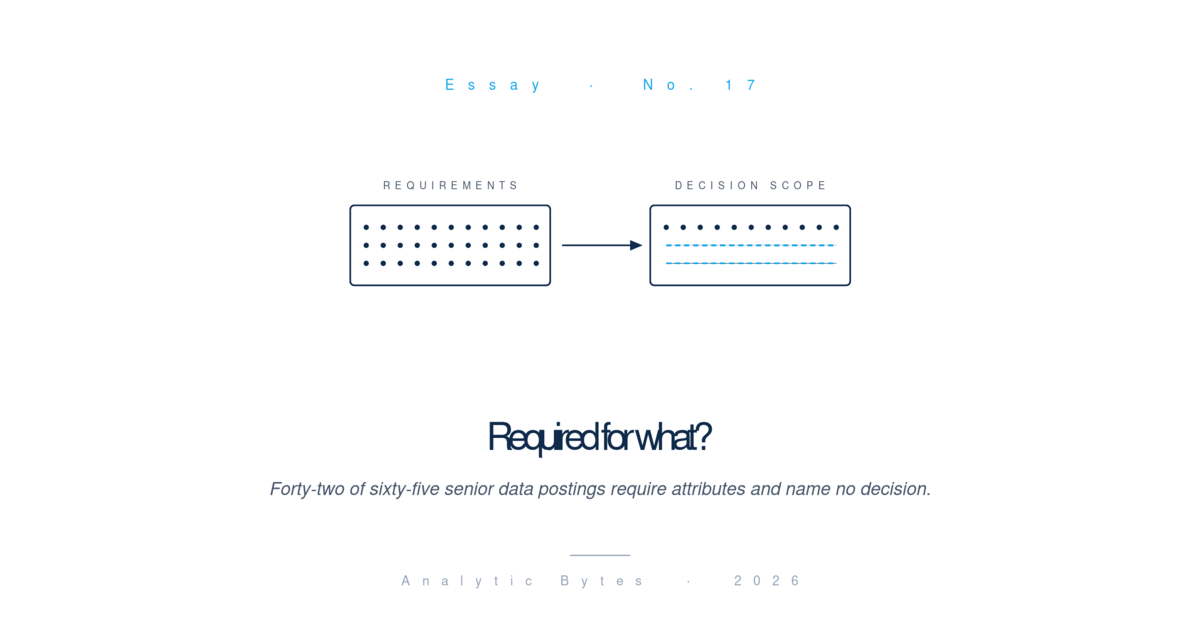
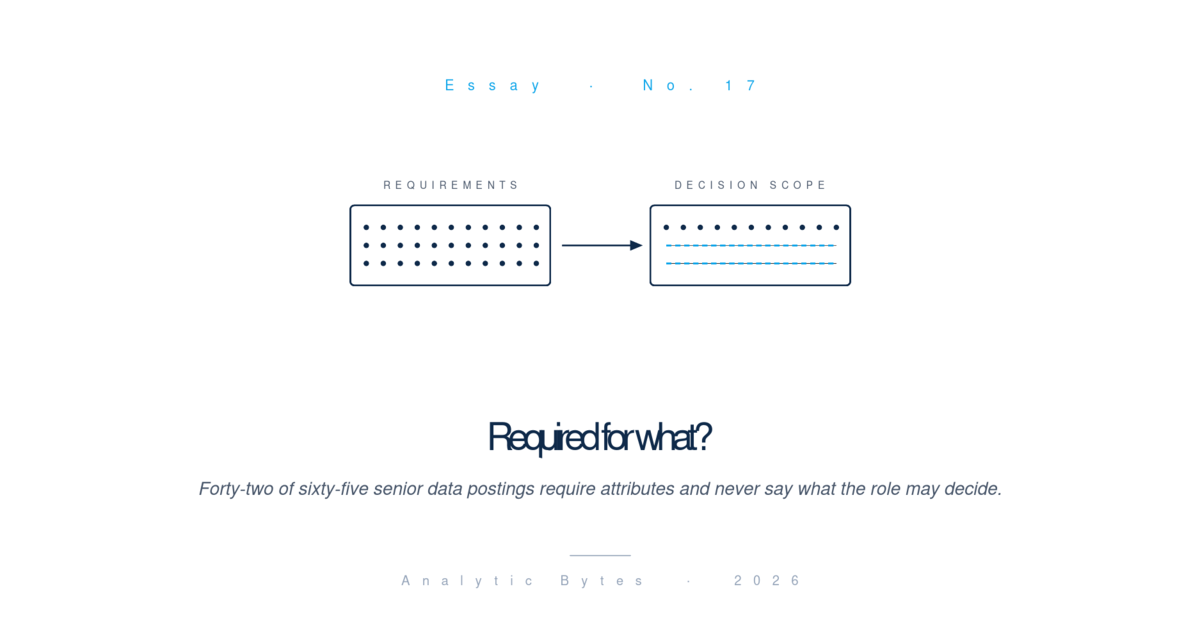
Fold latest Required for what? MD + figure updates

diff --git a/app/library/essays.tsx b/app/library/essays.tsx
@@ -9094,7 +9094,7 @@ export const ESSAYS: Essay[] = [
     date: "2026-09-02",
     readingTime: "22 min read",
     summary:
-      "Sixty-six senior data and AI leadership postings, read against the three anchors of a decision system. Ninety-eight percent name what the person must be. Thirty-five percent name what the person may decide. Eleven percent name how anyone will know the person's calls were good. And across eight hundred and thirteen items in the candidate-requirements sections of sixty-four documents, not one names a decision the hire may make.",
+      "Sixty-six senior data and AI leadership postings, read against the three anchors of a decision system. Ninety-eight percent name what the person must bring. Thirty-five percent name what the person may decide. Eleven percent name how anyone will know the person's calls were good. And across eight hundred and thirteen items in the candidate-requirements sections of sixty-four documents, not one names a decision the hire may make.",
     cover: "/library/covers/required-for-what.svg",
     arc: "ai-systems",
     body: (
@@ -9125,7 +9125,7 @@ export const ESSAYS: Essay[] = [
           Sixty-four of sixty-five codable postings name at least one attribute required of the person. That is ninety-eight percent. The rule was written to make the finding hard rather than easy: one named attribute clears the bar, and the same grain was used for all three anchors, so the comparison could not be rigged by setting a low bar for one and a high bar for another.
         </P>
         <P>
-          Twenty-three of the sixty-five name a decision the hire may make. Thirty-five percent, double-coded blind by two coders working from the same evidence packet. The false-negative sweep then ran across all sixty-six (the truncated posting included, since a sweep runs over whatever text exists). It found five postings both coders had missed, which is the honest measure of what a double-coding is worth on its own.
+          Twenty-three of the sixty-five name a decision the hire may make, anywhere in the document. Thirty-five percent, double-coded blind by two coders working from the same evidence packet. The false-negative sweep then ran across all sixty-six (the truncated posting included, since a sweep runs over whatever text exists). It found five postings both coders had missed, which is the honest measure of what a double-coding is worth on its own.
         </P>
         <P>
           Seven name a measure of the role&rsquo;s own work. Eleven percent &mdash; this is <InternalLink slug="what-is-this-system-measuring">the same gap I went after in the evaluation of AI systems</InternalLink>, arriving here one document earlier and about a person instead. Inside those seven there are thirty-three enumerated success items, and exactly one carries a number: a target net promoter score, above 0.70, at a consultancy. That is the only threshold applied to a post-holder&rsquo;s own work anywhere in the corpus. Everything else is a state of the world with no reading attached &mdash; stakeholders trust the numbers, dashboards are widely adopted, time-to-insight comes down.
@@ -9151,7 +9151,7 @@ export const ESSAYS: Essay[] = [
           A requirement is a claim of necessity, and necessity is always relative to a task. Ten years of data engineering is required <I>in order to do what</I>. So a requirements section is not a list. It is an inference, and it needs a stated job on the other end of it to be an inference about anything.
         </P>
         <P>
-          Forty-two of the sixty-five name what the person must be and never say what the role may decide. Not in a scope paragraph, not in responsibilities, not anywhere. These are director-level roles and above. From here the argument needs an assumption the corpus does not measure: that at this level, settling things is most of the work. Grant that, and those items are being asserted as necessary for a job the document has not stated.
+          Forty-two of the sixty-five name what the person must bring and never say what the role may decide. Not in a scope paragraph, not in responsibilities, not anywhere. These are director-level roles and above. From here the argument needs an assumption the corpus does not measure: that at this level, settling things is most of the work. Grant that, and those items are being asserted as necessary for a job the document has not stated.
         </P>
         <P>
           That is a claim about the document and it stops there. A job analysis may well exist somewhere &mdash; in a competency model, in a hiring manager&rsquo;s head, in the conversation that produced the requisition. Nothing here says otherwise. What the corpus supports is narrower: these documents specify the candidate and mostly leave the role&rsquo;s decision scope unstated. Whether something else in the document supplies a warrant for those requirements is a different question, and not one I coded.
@@ -9163,7 +9163,7 @@ export const ESSAYS: Essay[] = [
           The claim under test was written down before coding, in the form most likely to be wrong: <I>the requirements section is composed of credentials, skills and capabilities, and does not carry decision rights.</I> Any material rate of authority inside those sections would have falsified it.
         </P>
         <P>
-          Sixty-four postings carry a requirements section. Across them there are eight hundred and thirteen items &mdash; one bullet or one sentence apiece &mdash; and <B>not one names a decision the hire may make.</B> Not in the required block, not in the preferred block. Fifty-seven items came close enough to be pulled into an adjudication packet by a deliberately over-inclusive filter, and every one of the fifty-seven was read by hand and coded false. Forty-four were read three times, by me and by two coders working blind from the same packet. Thirteen were read once, by me, and seven of those come from postings the blind coders never saw. That is the thinnest part of the zero, and it sits at thirteen items out of eight hundred and thirteen.
+          Sixty-four postings carry a requirements section. Across them there are eight hundred and thirteen items &mdash; one bullet or one sentence apiece &mdash; and <B>not one of those items names a decision the hire may make.</B> Not in the required block, not in the preferred block. This is a count of items inside one section, not a count of documents. Fifty-seven items came close enough to be pulled into an adjudication packet by a deliberately over-inclusive filter, and every one of the fifty-seven was read by hand and coded false. Forty-four were read three times, by me and by two coders working blind from the same packet. Thirteen were read once, by me, and seven of those come from postings the blind coders never saw. That is the thinnest part of the zero, and it sits at thirteen items out of eight hundred and thirteen.
         </P>
         <P>
           What the eight hundred and thirteen are made of, roughly: three quarters are abilities and dispositions, then tools, then domain knowledge, then years, then degrees, then a thin tail of certifications. The abilities category is the largest and the least falsifiable in content, which is a finding in itself and should not be smoothed over.
@@ -9245,13 +9245,13 @@ export const ESSAYS: Essay[] = [
           Three further limits, stated rather than discovered. A job posting is not a governance document; an organization can run a rigorous model-risk committee and put none of it in a requisition, and reading these counts as a claim about internal practice would be the category error this library keeps objecting to. The sampling is worse than the coding: these sixty-six are roles one person selected and in most cases applied to, across four months, leaning toward education, nonprofit and health-adjacent employers, so selection bias is total and runs in a known direction. And the corpus has no outcome variable, so it supports no claim about what any of this causes downstream. The causal literature connecting unclear decision rights to churn and failed restructures is real and it is borrowed; the join between that literature and this evidence does not exist in this design.
         </P>
         <P>
-          One piece of that sampling objection can be checked rather than conceded. If these employers were simply too early for any of this, the silence would be a maturity artifact and little else. So each posting was coded for whether the role holds an AI or machine-learning system in its remit. Twenty-six of the sixty-five do. Within those twenty-six, thirteen name a decision the hire may make and thirteen do not. Among the thirty-nine holding no such system, ten name one. Handing someone an AI system roughly doubles the chance the document says what they get to decide, at an odds ratio near three, and a two-tailed exact test on that table returns p = 0.064, which is suggestive rather than established. It cuts both ways. Half the roles built around an AI system still never say what the person may decide.
+          One piece of that sampling objection can be checked rather than conceded. If these employers were simply too early for any of this, the silence would be a maturity artifact and little else. So each posting was coded for whether the role holds an AI or machine-learning system in its remit. Twenty-seven of the sixty-five do. Within those twenty-seven, thirteen name a decision the hire may make and fourteen do not. Among the thirty-eight holding no such system, ten name one. That is forty-eight percent against twenty-six, an odds ratio of 2.6, and a two-tailed exact test on the table returns p = 0.11. Sixty-five postings cannot establish a gap that size, so this is a direction rather than a result, and it would be dishonest to report it as more. It cuts both ways regardless. More than half the roles built around an AI system still never say what the person may decide.
         </P>
 
         <Figure
           src="/library/figures/decision-named-by-ai-remit.svg"
-          alt="Two rows of squares, one per posting. Twenty-six postings hand the role an AI system and thirteen of them name a decision. Thirty-nine hand it no such system and ten name a decision."
-          caption="The maturity objection, tested inside the corpus. Handing a role an AI system doubles the rate at which a decision is written down, at an odds ratio of 2.90 and an exact-test p of 0.064."
+          alt="Two rows of squares, one per posting. Twenty-seven postings hand the role an AI system and thirteen of them name a decision. Thirty-eight hand it no such system and ten name a decision."
+          caption="The maturity objection, tested inside the corpus. Holding an AI system goes with a higher rate of naming a decision, 48 percent against 26, at an odds ratio of 2.6. The exact-test p is 0.11, so the table shows a direction this sample cannot establish."
         />
 
         <P>
@@ -9331,7 +9331,7 @@ export const ESSAYS: Essay[] = [
           This is deliberately a low bar. It is one sentence per moved decision, and it is a statement about the job rather than about the candidate. It is low because the failure mode in this corpus is not thin governance but no governance at all, and a bar that requires a working group will not clear.
         </P>
         <P>
-          <B>To whoever writes or approves the requisition.</B> A requirements section states what a person must be. Add one line stating what the role settles without another signature, and put it next to the requirements rather than in a section further down. Then what the document asks of the candidate and what it grants the role sit on the same page. That line is what a screening tool has no way to infer, and what a new hire currently reconstructs by trying something and seeing whether anyone objects.
+          <B>To whoever writes or approves the requisition.</B> A requirements section states what a person must bring. Add one line stating what the role settles without another signature, and put it next to the requirements rather than in a section further down. Then what the document asks of the candidate and what it grants the role sit on the same page. That line is what a screening tool has no way to infer, and what a new hire currently reconstructs by trying something and seeing whether anyone objects.
         </P>
         <P>
           It can be written badly, which is the point of it being a field rather than a principle. A vague version &mdash; <I>owns data strategy</I> &mdash; is checkable against the standard and fails it, because owning an area is not settling a question. That is what makes it something to adopt rather than agree with.
